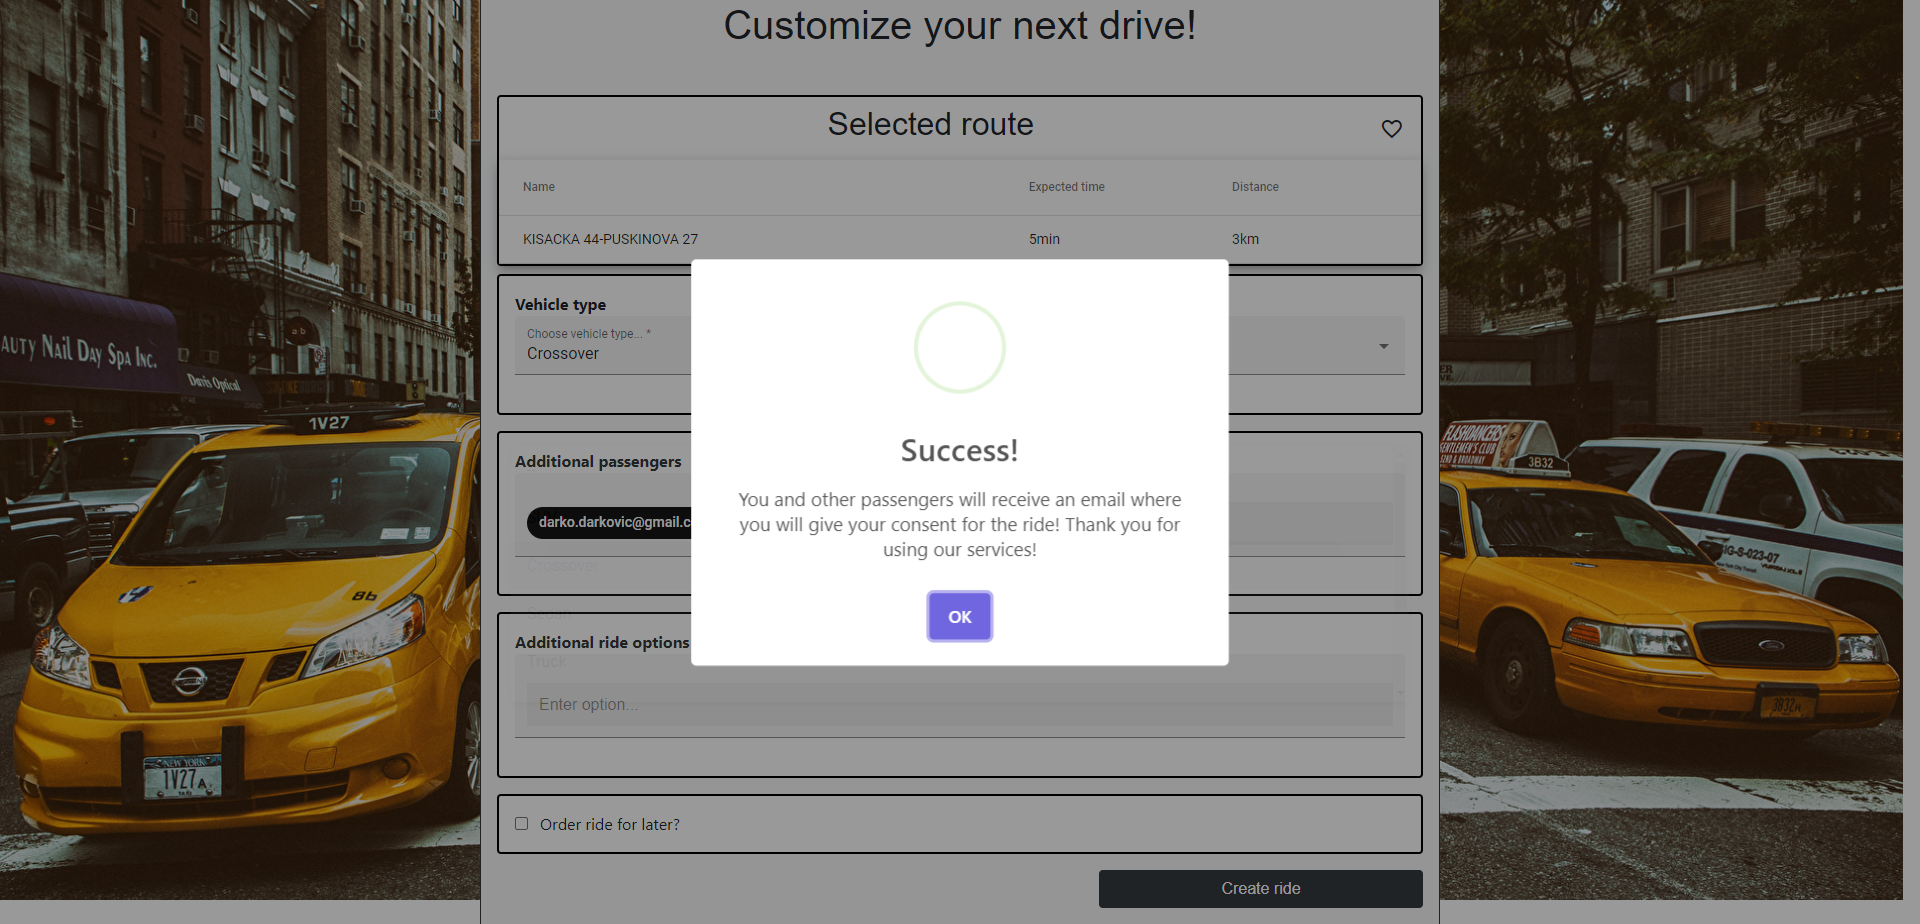
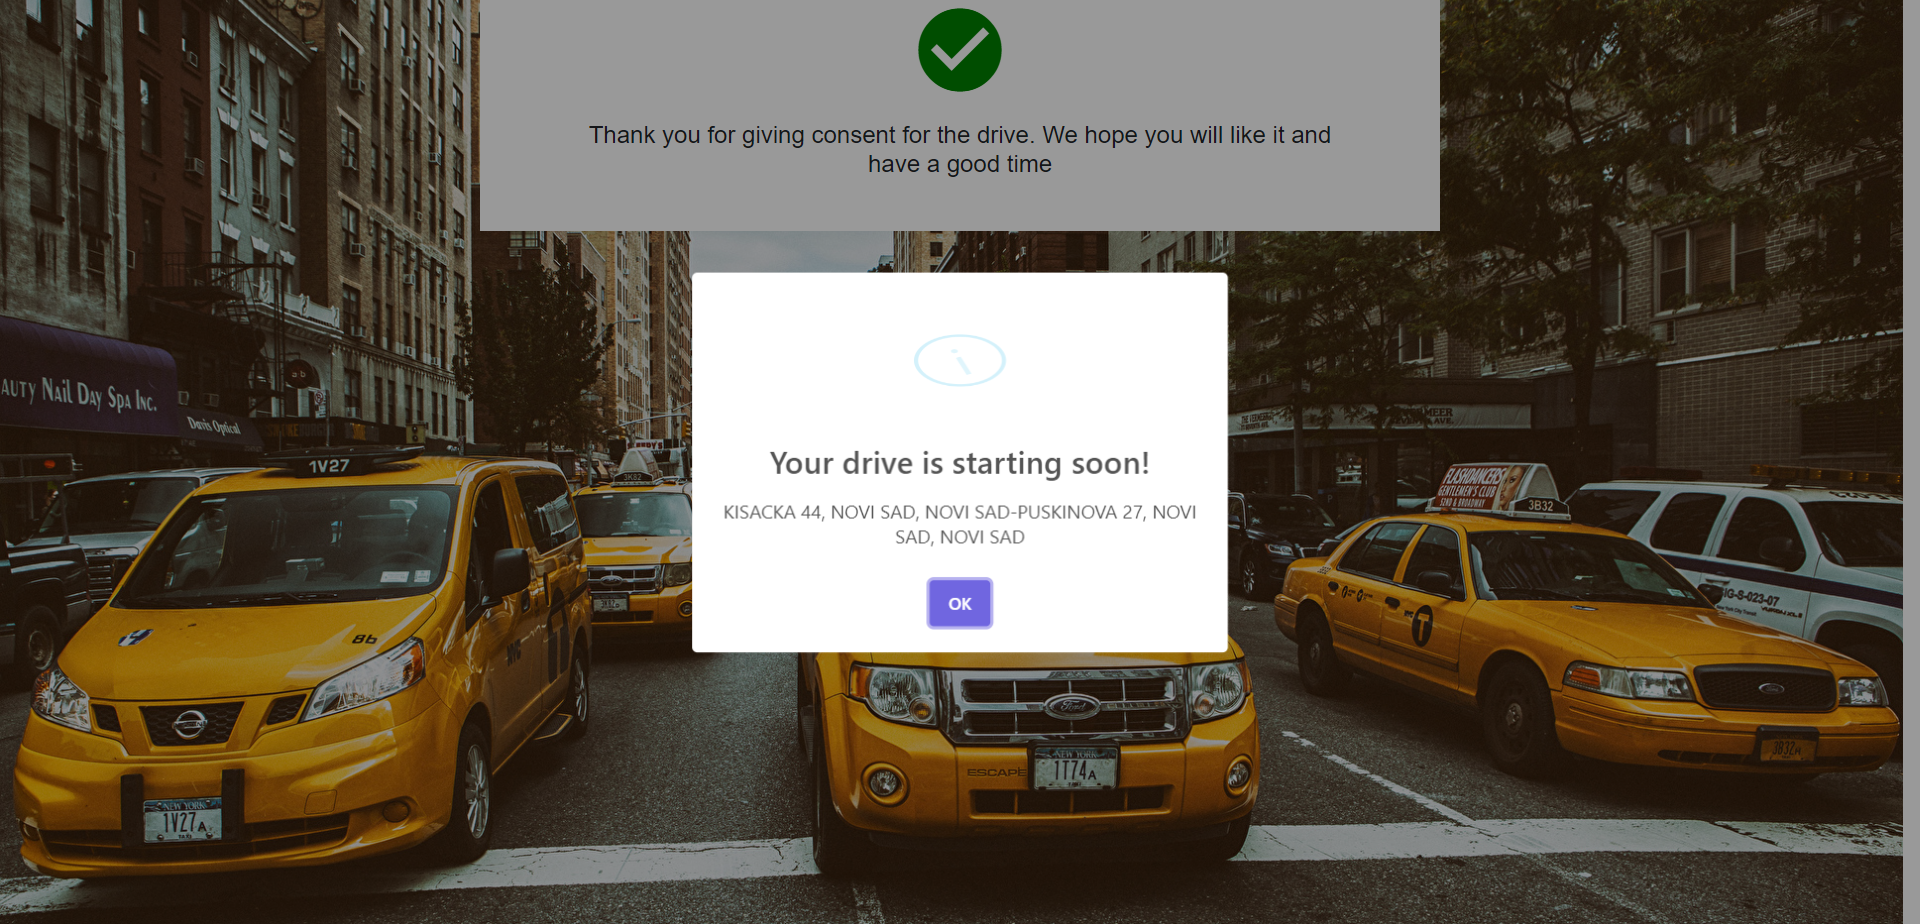
Add swal alert for drive consent to implement selenium test for accepting a drive

diff --git a/src/main/java/nwt/kts/backend/service/DriveService.java b/src/main/java/nwt/kts/backend/service/DriveService.java
@@ -16,7 +16,6 @@ import org.springframework.stereotype.Service;
 import org.springframework.transaction.annotation.Transactional;
 
 import javax.mail.MessagingException;
-import javax.persistence.EntityNotFoundException;
 import java.sql.Timestamp;
 import java.util.*;
 import java.util.stream.Collectors;
@@ -95,9 +94,9 @@ public class DriveService {
         return tempDriveRepository.save(tempDrive);
     }
 
-    public TempDrive acceptDriveConsent(Integer tempDriveId) {
+    public TempDrive acceptDriveConsent(Integer tempDriveId, Integer passengerId) {
         TempDrive tempDrive = tempDriveRepository.findTempDriveById(tempDriveId);
-        this.acceptDrive(tempDrive);
+        this.acceptDrive(tempDrive, passengerId);
         if (this.allPassengersAcceptedDrive(tempDrive)) {
             if (this.passengersHaveTokens(tempDrive)) {
                 Driver driver = driverService.selectDriverForDrive(tempDrive);
@@ -140,13 +139,17 @@ public class DriveService {
     }
 
     public TempDrive rejectDrive(TempDrive tempDrive, Integer passengerId, Passenger rejectPassenger) throws MessagingException {
-        for (Passenger passenger : tempDrive.getPassengers()) {
-            if (!Objects.equals(passenger.getId(), passengerId)) {
-                emailService.sendDriveRejectedEmail(tempDrive, passenger, rejectPassenger);
+        if (!tempDrive.getAnsweredPassengers().contains(passengerId)) {
+            tempDrive.getAnsweredPassengers().add(passengerId);
+            for (Passenger passenger : tempDrive.getPassengers()) {
+                if (!Objects.equals(passenger.getId(), passengerId)) {
+                    emailService.sendDriveRejectedEmail(tempDrive, passenger, rejectPassenger);
+                }
             }
+            tempDrive.setStatus(Status.CANCELLED);
+            return tempDriveRepository.save(tempDrive);
         }
-        tempDrive.setStatus(Status.CANCELLED);
-        return tempDriveRepository.save(tempDrive);
+        throw new PassengerAlreadyAnsweredException("You have already given/not given your consent for this drive!");
     }
 
     public void sendConfirmationEmail(TempDrive tempDrive) throws MessagingException {
@@ -155,8 +158,13 @@ public class DriveService {
         }
     }
 
-    private void acceptDrive(TempDrive tempDrive) {
-        tempDrive.addAcceptedPassenger();
+    private void acceptDrive(TempDrive tempDrive, int passengerId) {
+        if (!tempDrive.getAnsweredPassengers().contains(passengerId)) {
+            tempDrive.addAcceptedPassenger();
+            tempDrive.getAnsweredPassengers().add(passengerId);
+        } else {
+            throw new PassengerAlreadyAnsweredException("You have already given/not given your consent for this drive!");
+        }
     }
 
     private boolean allPassengersAcceptedDrive(TempDrive tempDrive) {

diff --git a/src/test/java/nwt/kts/backend/selenium/tests/CreateTempDriveTests.java b/src/test/java/nwt/kts/backend/selenium/tests/CreateTempDriveTests.java
@@ -1,10 +1,11 @@
 package nwt.kts.backend.selenium.tests;
 
 import nwt.kts.backend.selenium.helper.Helper;
-import nwt.kts.backend.selenium.pages.CustomizeDrivePage;
-import nwt.kts.backend.selenium.pages.HomePage;
-import nwt.kts.backend.selenium.pages.LoginPage;
-import nwt.kts.backend.selenium.pages.PassengerStartPage;
+import nwt.kts.backend.selenium.pages.*;
+import org.openqa.selenium.By;
+import org.openqa.selenium.JavascriptExecutor;
+import org.openqa.selenium.Keys;
+import org.openqa.selenium.interactions.Actions;
 import org.testng.annotations.BeforeTest;
 import org.testng.annotations.Test;
 
@@ -14,11 +15,23 @@ public class CreateTempDriveTests extends TestBase {
 
     @BeforeTest
     public void loadPassengerHomePage() {
-        HomePage homePage = new HomePage(webDriver);
-        homePage.waitUntilLoaded();
-        homePage.hoverLoginNavbarLink();
-        homePage.clickLoginNavbarLink();
+        HomePage homePageDriver = new HomePage(webDriver);
+        homePageDriver.waitUntilLoaded();
+        homePageDriver.hoverLoginNavbarLink();
+        homePageDriver.clickLoginNavbarLink();
         LoginPage loginPage = new LoginPage(webDriver);
+        loginPage.waitUntilLoaded();
+        loginPage.enterEmail("branko.lazic@gmail.com");
+        loginPage.enterPassword("sifra123");
+        loginPage.pressLoginButton();
+        ((JavascriptExecutor) webDriver).executeScript("window.open()");
+        String currentWindow = homePageDriver.getWindowHandle();
+        homePageDriver.checkoutToAnotherWindow(currentWindow);
+        HomePage homePagePassenger = new HomePage(webDriver);
+        homePagePassenger.waitUntilLoaded();
+        homePagePassenger.hoverLoginNavbarLink();
+        homePagePassenger.clickLoginNavbarLink();
+        loginPage = new LoginPage(webDriver);
         loginPage.waitUntilLoaded();
         loginPage.enterEmail("darko.darkovic@gmail.com");
         loginPage.enterPassword("sifra123");
@@ -62,7 +75,11 @@ public class CreateTempDriveTests extends TestBase {
         customizeDrivePage.clickSelectVehicleType();
         customizeDrivePage.clickSpecificVehicleType();
         customizeDrivePage.clickCreateRideBtn();
-        customizeDrivePage.waitUntilModalIsLoaded("Success!");
+        customizeDrivePage.waitUntilModalIsLoaded("Drive consent");
+        passengerStartPage.clickSwalConfirm();
+
+        DriveAcceptPage driveAcceptPage = new DriveAcceptPage(webDriver);
+        driveAcceptPage.waitUntilLoaded();
         Helper.takeScreenshoot(webDriver, "create_temp_drive_test_3_customize_ride");
     }
 

diff --git a/src/test/java/nwt/kts/backend/service/DriveServiceTest.java b/src/test/java/nwt/kts/backend/service/DriveServiceTest.java
@@ -273,7 +273,7 @@ public class DriveServiceTest {
         when(tempDriveRepository.findTempDriveById(1)).thenReturn(tempDrive);
 
         NotEnoughTokensException exception = assertThrows(NotEnoughTokensException.class,
-                () -> driveService.acceptDriveConsent(1));
+                () -> driveService.acceptDriveConsent(1, 0));
 
         assertEquals("You don't have enough tokens to pay for the ride!", exception.getMessage());
         verify(tempDriveRepository, times(1)).findTempDriveById(1);
@@ -299,7 +299,7 @@ public class DriveServiceTest {
         when(tempDriveRepository.findTempDriveById(1)).thenReturn(tempDrive);
 
         NotEnoughTokensException exception = assertThrows(NotEnoughTokensException.class,
-                () -> driveService.acceptDriveConsent(1));
+                () -> driveService.acceptDriveConsent(1, 0));
 
         assertEquals("You don't have enough tokens to pay for the ride!", exception.getMessage());
         verify(tempDriveRepository, times(1)).findTempDriveById(1);
@@ -319,7 +319,7 @@ public class DriveServiceTest {
         when(driverService.selectDriverForDrive(tempDrive)).thenReturn(null);
 
         DriverNotFoundException exception = assertThrows(DriverNotFoundException.class,
-                () -> driveService.acceptDriveConsent(1));
+                () -> driveService.acceptDriveConsent(1, 0));
 
         assertEquals("There are no available drivers right now!", exception.getMessage());
         verify(tempDriveRepository, times(1)).findTempDriveById(1);
@@ -345,7 +345,7 @@ public class DriveServiceTest {
         when(tempDriveRepository.findTempDriveById(1)).thenReturn(tempDrive);
         when(tempDriveRepository.save(Mockito.any(TempDrive.class))).thenAnswer(i -> i.getArguments()[0]);
 
-        TempDrive actual = driveService.acceptDriveConsent(1);
+        TempDrive actual = driveService.acceptDriveConsent(1, 0);
 
         int expected = tempDrive.getPassengers().size() - (tempDrive.getPassengers().size() - 1);
 
@@ -377,7 +377,7 @@ public class DriveServiceTest {
         when(driveRepository.save(Mockito.any(Drive.class))).thenAnswer(i -> i.getArguments()[0]);
         when(tempDriveRepository.save(Mockito.any(TempDrive.class))).thenAnswer(i -> i.getArguments()[0]);
 
-        TempDrive actual = driveService.acceptDriveConsent(1);
+        TempDrive actual = driveService.acceptDriveConsent(1, 0);
 
         assertEquals(tempDrive.getPassengers().size(), actual.getNumAcceptedPassengers());
         verify(tempDriveRepository, times(1)).findTempDriveById(1);

diff --git a/src/test/java/nwt/kts/backend/selenium/pages/DriveAcceptPage.java b/src/test/java/nwt/kts/backend/selenium/pages/DriveAcceptPage.java
@@ -1,0 +1,27 @@
+package nwt.kts.backend.selenium.pages;
+
+import org.openqa.selenium.WebDriver;
+import org.openqa.selenium.WebElement;
+import org.openqa.selenium.support.FindBy;
+import org.openqa.selenium.support.PageFactory;
+import org.openqa.selenium.support.ui.ExpectedConditions;
+import org.openqa.selenium.support.ui.WebDriverWait;
+
+import java.time.Duration;
+
+public class DriveAcceptPage {
+
+    @FindBy(id = "accept-title")
+    private WebElement acceptTitle;
+
+    private WebDriver webDriver;
+
+    public DriveAcceptPage(WebDriver webDriver) {
+        this.webDriver = webDriver;
+        PageFactory.initElements(webDriver, this);
+    }
+
+    public void waitUntilLoaded() {
+        new WebDriverWait(webDriver, Duration.ofSeconds(10).getSeconds()).until(ExpectedConditions.visibilityOf(acceptTitle));
+    }
+}

diff --git a/src/test/java/nwt/kts/backend/selenium/pages/PassengerStartPage.java b/src/test/java/nwt/kts/backend/selenium/pages/PassengerStartPage.java
@@ -30,6 +30,12 @@ public class PassengerStartPage {
     @FindBy(id = "swal2-title")
     private WebElement modalText;
 
+    @FindBy(className = "swal2-confirm")
+    private WebElement swalConfirmButton;
+
+    @FindBy(className = "swal2-deny")
+    private WebElement swalDenyButton;
+
     private WebDriver webDriver;
 
     public PassengerStartPage(WebDriver webDriver) {
@@ -65,5 +71,13 @@ public class PassengerStartPage {
     public void waitUntilModalIsLoaded(String message) {
         new WebDriverWait(webDriver, Duration.ofSeconds(10).getSeconds())
                 .until(ExpectedConditions.textToBePresentInElement(modalText, message));
+    }
+
+    public void clickSwalConfirm() {
+        this.swalConfirmButton.click();
+    }
+
+    public void clickSwalDeny() {
+        this.swalDenyButton.click();
     }
 }

diff --git a/src/main/java/nwt/kts/backend/entity/TempDrive.java b/src/main/java/nwt/kts/backend/entity/TempDrive.java
@@ -4,6 +4,8 @@ import nwt.kts.backend.dto.creation.TempDriveDTO;
 
 import javax.persistence.*;
 import java.sql.Timestamp;
+import java.util.ArrayList;
+import java.util.List;
 import java.util.Set;
 import java.util.stream.Collectors;
 
@@ -51,6 +53,11 @@ public class TempDrive {
 
     @Column(name = "status")
     private Status status;
+
+    @ElementCollection
+    @CollectionTable(name = "answered_passengers", joinColumns = @JoinColumn(name = "id"))
+    @Column(name = "answered_passenger")
+    private List<Integer> answeredPassengers = new ArrayList<>();
 
     public TempDrive() {
     }
@@ -164,5 +171,9 @@ public class TempDrive {
 
     public void setStatus(Status status) {
         this.status = status;
+    }
+
+    public List<Integer> getAnsweredPassengers() {
+        return answeredPassengers;
     }
 }

diff --git a/src/main/java/nwt/kts/backend/controller/DriveController.java b/src/main/java/nwt/kts/backend/controller/DriveController.java
@@ -76,8 +76,9 @@ public class DriveController {
     }
 
     @PutMapping("/accept-drive-consent")
-    public ResponseEntity<Void> acceptDriveConsent(@RequestParam("tempDriveId") Integer tempDriveId) {
-        TempDrive tempDrive = driveService.acceptDriveConsent(tempDriveId);
+    public ResponseEntity<Void> acceptDriveConsent(@RequestParam("tempDriveId") Integer tempDriveId,
+                                                   @RequestParam("passengerId") Integer passengerId) {
+        TempDrive tempDrive = driveService.acceptDriveConsent(tempDriveId, passengerId);
         if (tempDrive.getDriveId() != null) {
             Drive drive = driveService.getDriveById(tempDrive.getDriveId());
             if (drive.getStatus() == Status.DRIVING_TO_START) {

diff --git a/src/main/java/nwt/kts/backend/exceptions/handler/RestExceptionHandler.java b/src/main/java/nwt/kts/backend/exceptions/handler/RestExceptionHandler.java
@@ -269,6 +269,13 @@ public class RestExceptionHandler extends ResponseEntityExceptionHandler {
         return buildResponseEntity(apiError);
     }
 
+    @ExceptionHandler(PassengerAlreadyAnsweredException.class)
+    protected  ResponseEntity<Object> handlePassengerAlreadyAnsweredException(PassengerAlreadyAnsweredException ex) {
+        ApiError apiError = new ApiError(INTERNAL_SERVER_ERROR);
+        apiError.setMessage(ex.getMessage());
+        return buildResponseEntity(apiError);
+    }
+
     @ExceptionHandler(UserNotAuthenticatedException.class)
     protected ResponseEntity<Object> handleUserNotAuthenticatedException(UserNotAuthenticatedException ex) {
         ApiError apiError = new ApiError(BAD_REQUEST);

diff --git a/src/test/java/nwt/kts/backend/selenium/pages/HomePage.java b/src/test/java/nwt/kts/backend/selenium/pages/HomePage.java
@@ -41,4 +41,15 @@ public class HomePage {
         new WebDriverWait(webDriver, Duration.ofSeconds(10).getSeconds()).until(ExpectedConditions.textToBePresentInElement(uberStrongTag, "UBER"));
     }
 
+    public String getWindowHandle() {
+        return webDriver.getWindowHandle();
+    }
+
+    public void checkoutToAnotherWindow(String mainWindowHandle) {
+        for (String windowHandle: webDriver.getWindowHandles()) {
+            if (!mainWindowHandle.equals(windowHandle)) {
+                webDriver.switchTo().window(windowHandle);
+            }
+        }
+    }
 }

diff --git a/src/test/java/nwt/kts/backend/selenium/pages/CustomizeDrivePage.java b/src/test/java/nwt/kts/backend/selenium/pages/CustomizeDrivePage.java
@@ -18,7 +18,7 @@ public class CustomizeDrivePage {
     @FindBy(id = "selectType")
     private WebElement selectVehicleType;
 
-    @FindBy(id = "vehicle-type-2")
+    @FindBy(id = "vehicle-type-6")
     private WebElement specificVehicleType;
 
     @FindBy(id = "swal2-title")
@@ -106,9 +106,6 @@ public class CustomizeDrivePage {
 
     public void inputPerson(String email) {
         this.personInput.sendKeys(email);
-        this.personInput.sendKeys(Keys.ENTER);
-    }
-    public void clickInputPerson() {
         this.personInput.sendKeys(Keys.ENTER);
     }
 

diff --git a/src/main/java/nwt/kts/backend/exceptions/PassengerAlreadyAnsweredException.java b/src/main/java/nwt/kts/backend/exceptions/PassengerAlreadyAnsweredException.java
@@ -1,0 +1,8 @@
+package nwt.kts.backend.exceptions;
+
+public class PassengerAlreadyAnsweredException extends RuntimeException {
+
+    public PassengerAlreadyAnsweredException(String message) {
+        super(message);
+    }
+}
